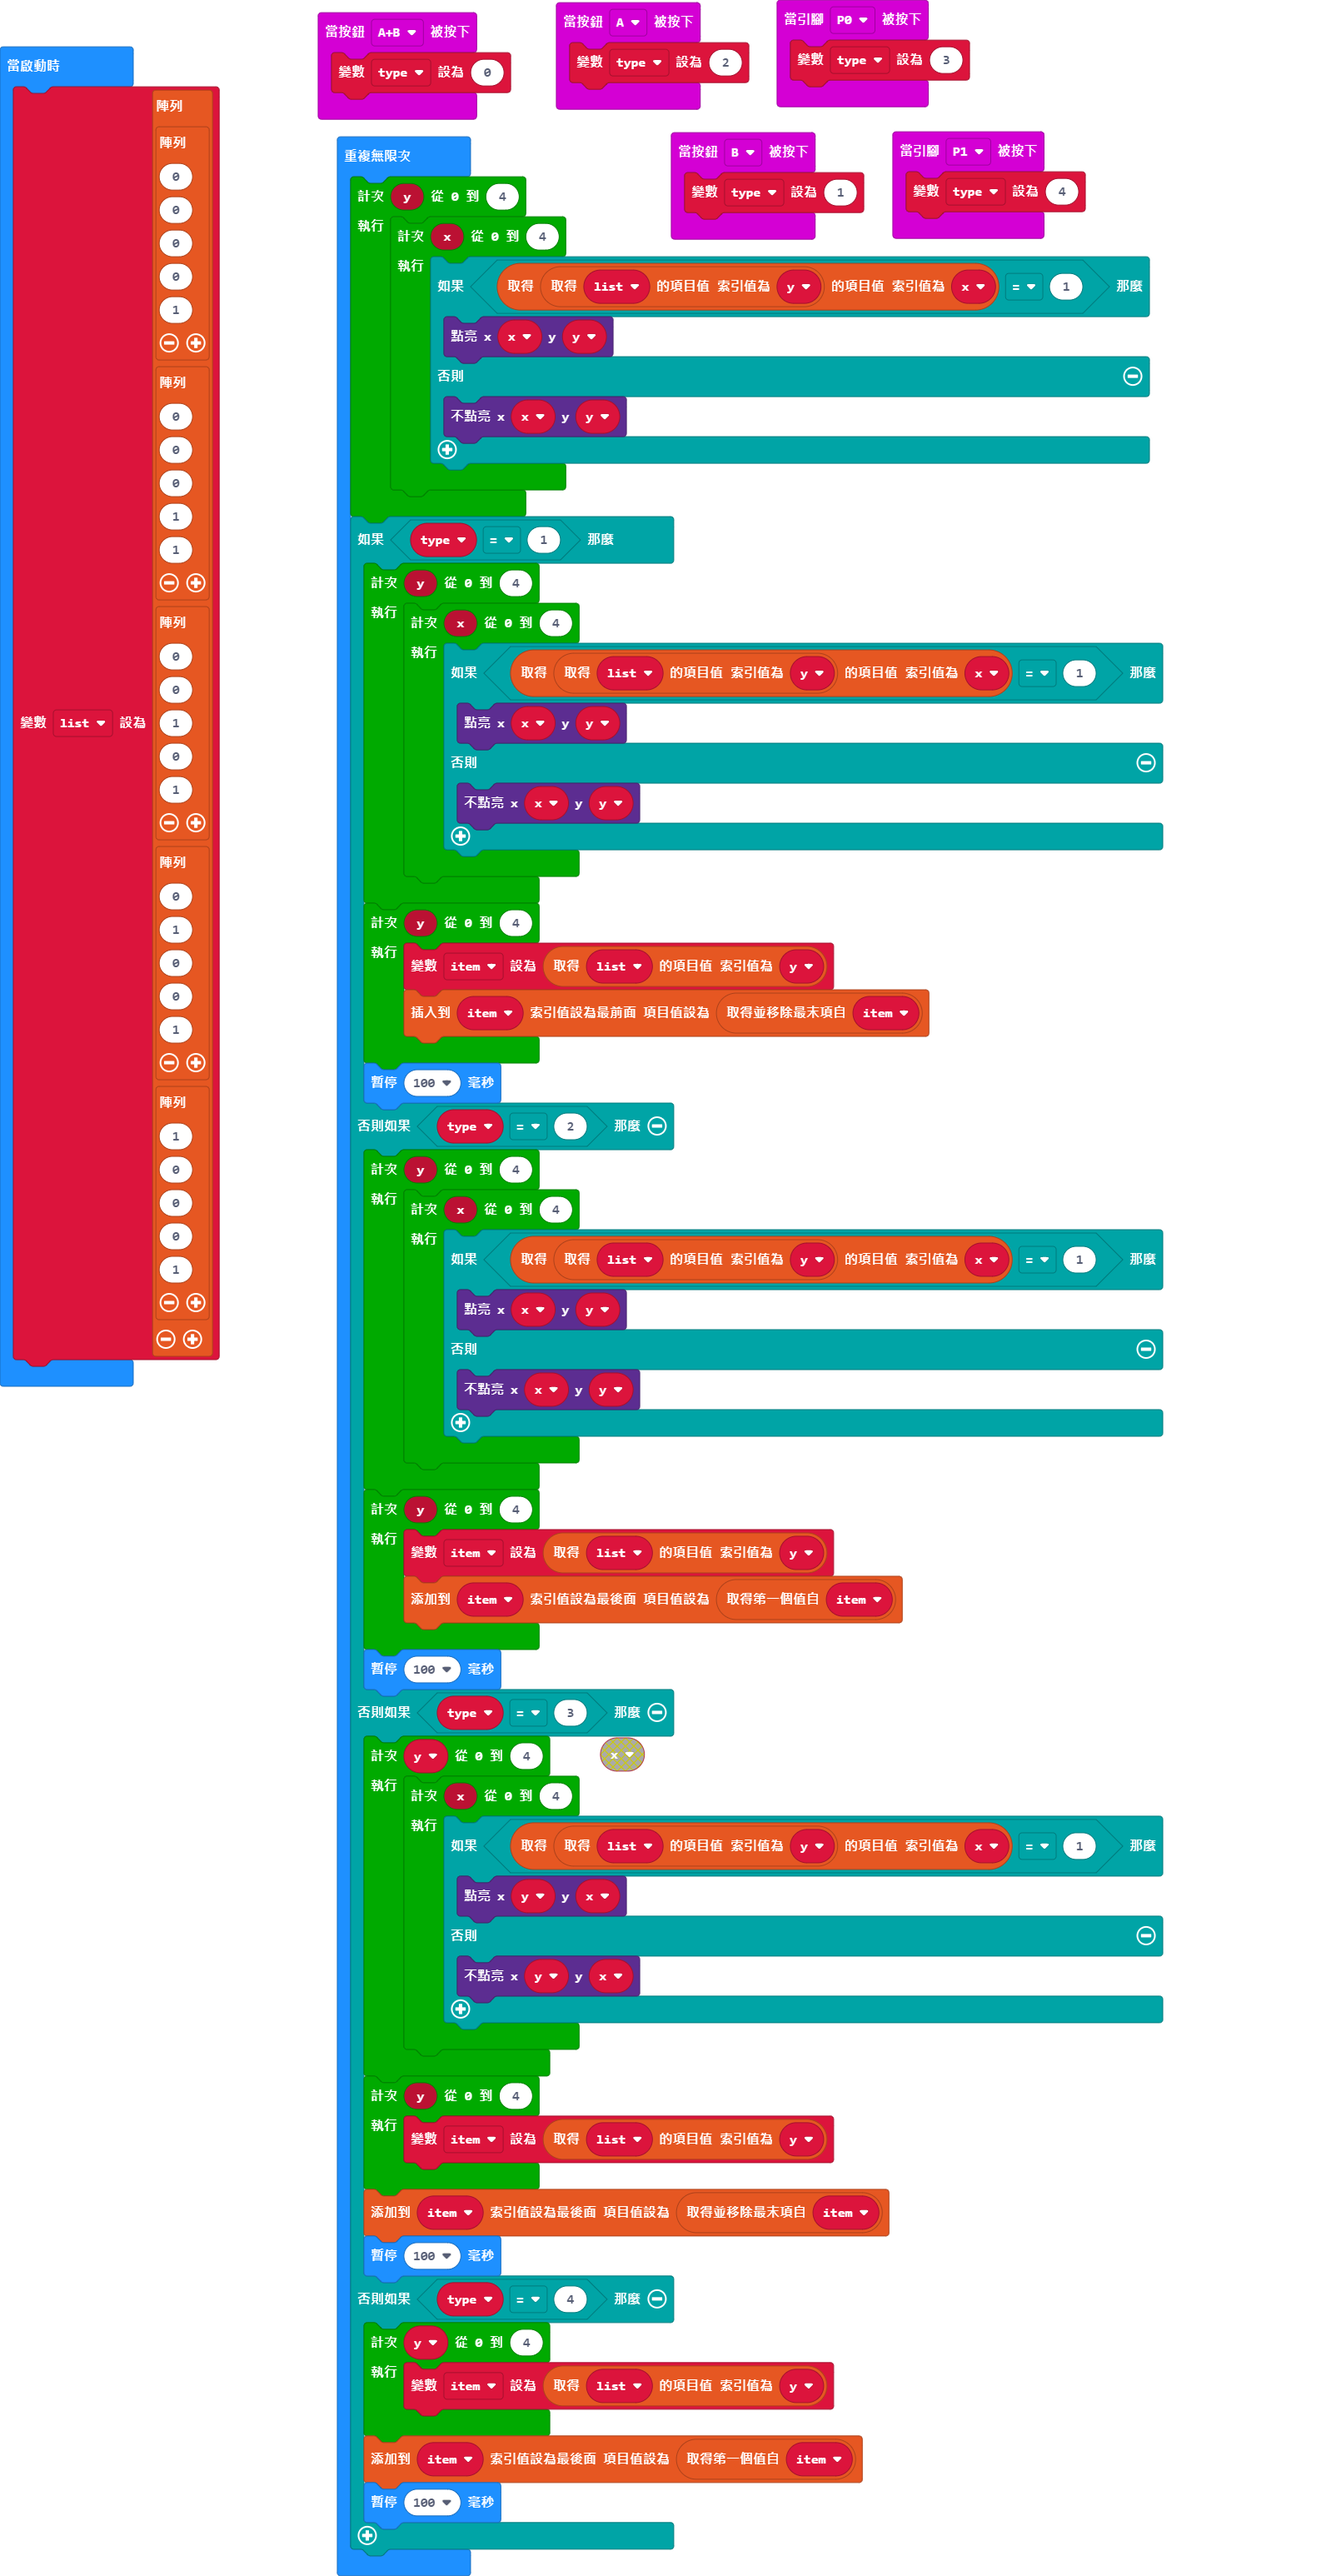
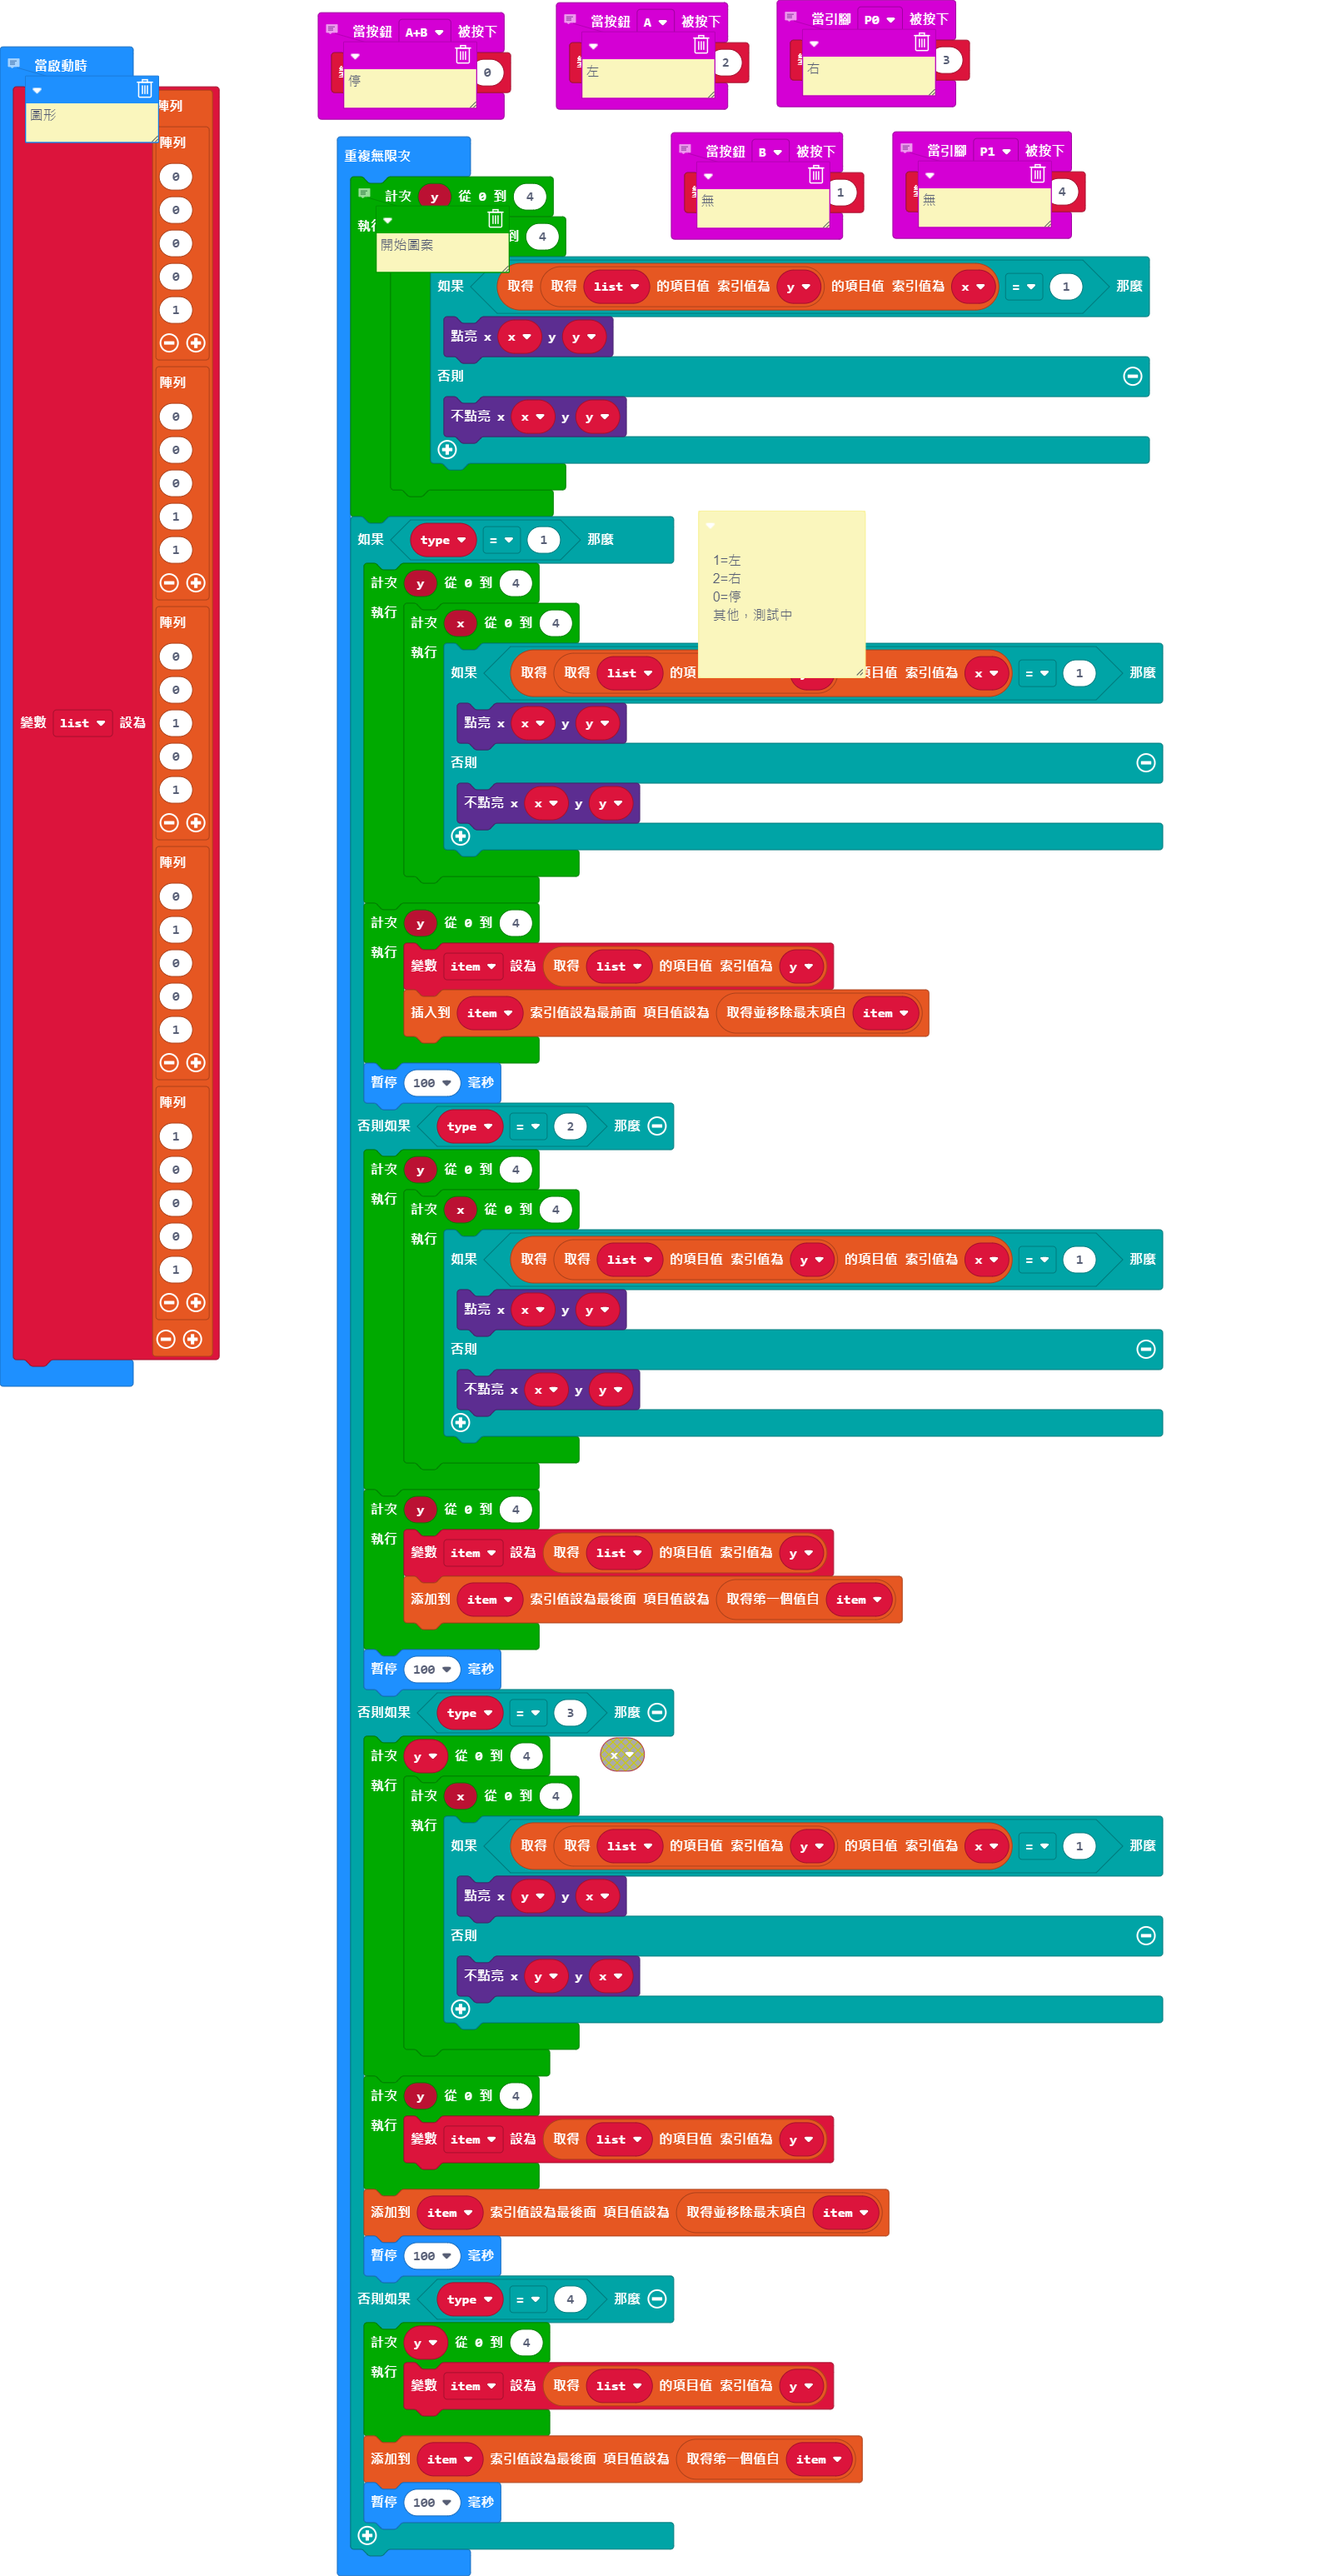
更新 main.blocks, main.ts

diff --git a/main.ts b/main.ts
@@ -1,18 +1,24 @@
+// 右
 input.onPinPressed(TouchPin.P0, function () {
     _type = 3
 })
+// 左
 input.onButtonPressed(Button.A, function () {
     _type = 2
 })
+// 停
 input.onButtonPressed(Button.AB, function () {
     _type = 0
 })
+// 無
 input.onButtonPressed(Button.B, function () {
     _type = 1
 })
+// 無
 input.onPinPressed(TouchPin.P1, function () {
     _type = 4
 })
+// 圖形
 let item: number[] = []
 let _type = 0
 let list = [
@@ -52,7 +58,17 @@ let list = [
 1
 ]
 ]
+/**
+ * 1=左
+ * 
+ * 2=右
+ * 
+ * 0=停
+ * 
+ * 其他，測試中
+ */
 basic.forever(function () {
+    // 開始圖案
     for (let y = 0; y <= 4; y++) {
         for (let x = 0; x <= 4; x++) {
             if (list[y][x] == 1) {
